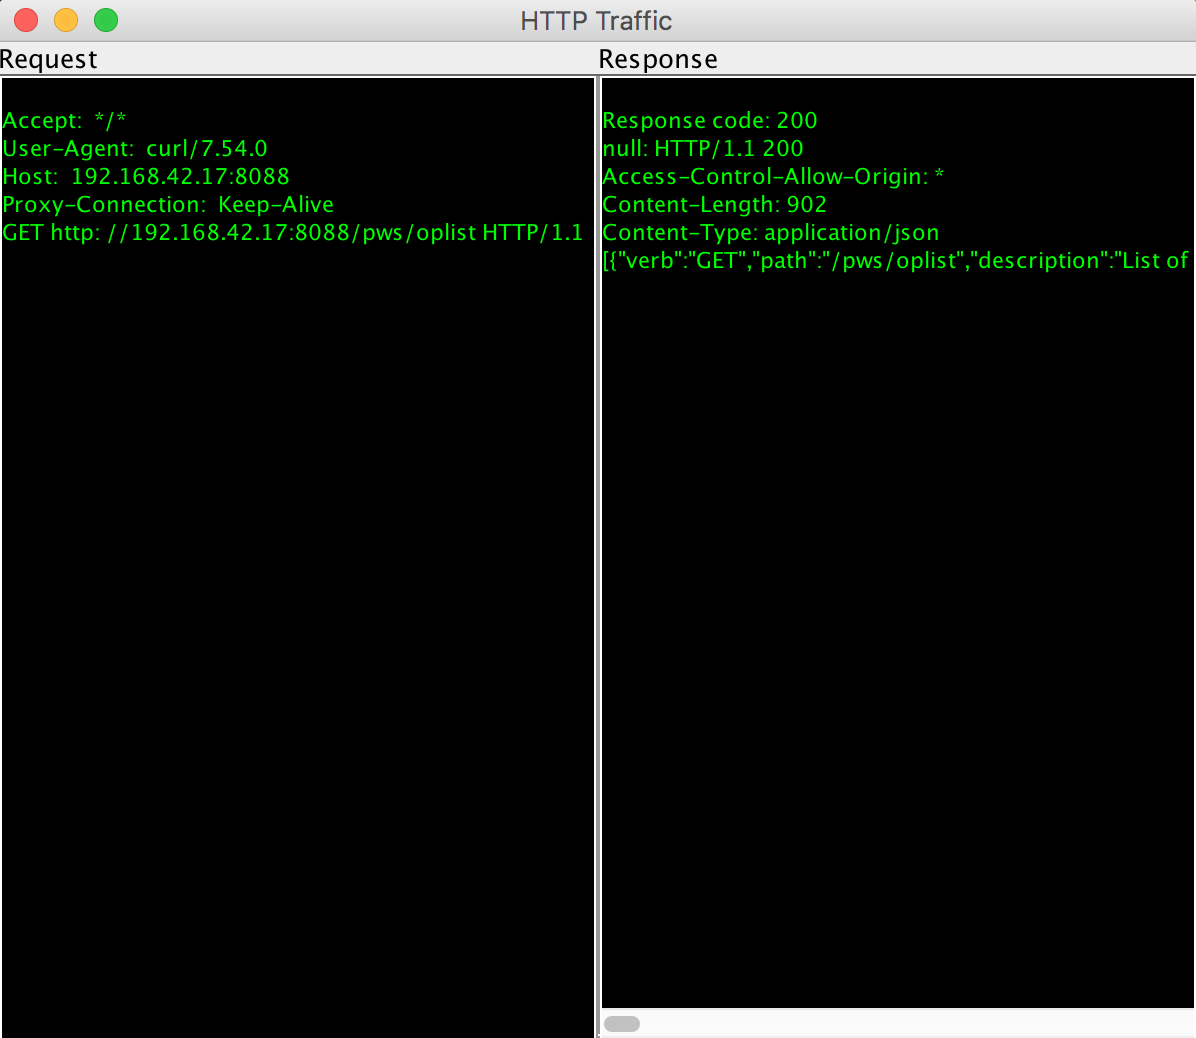
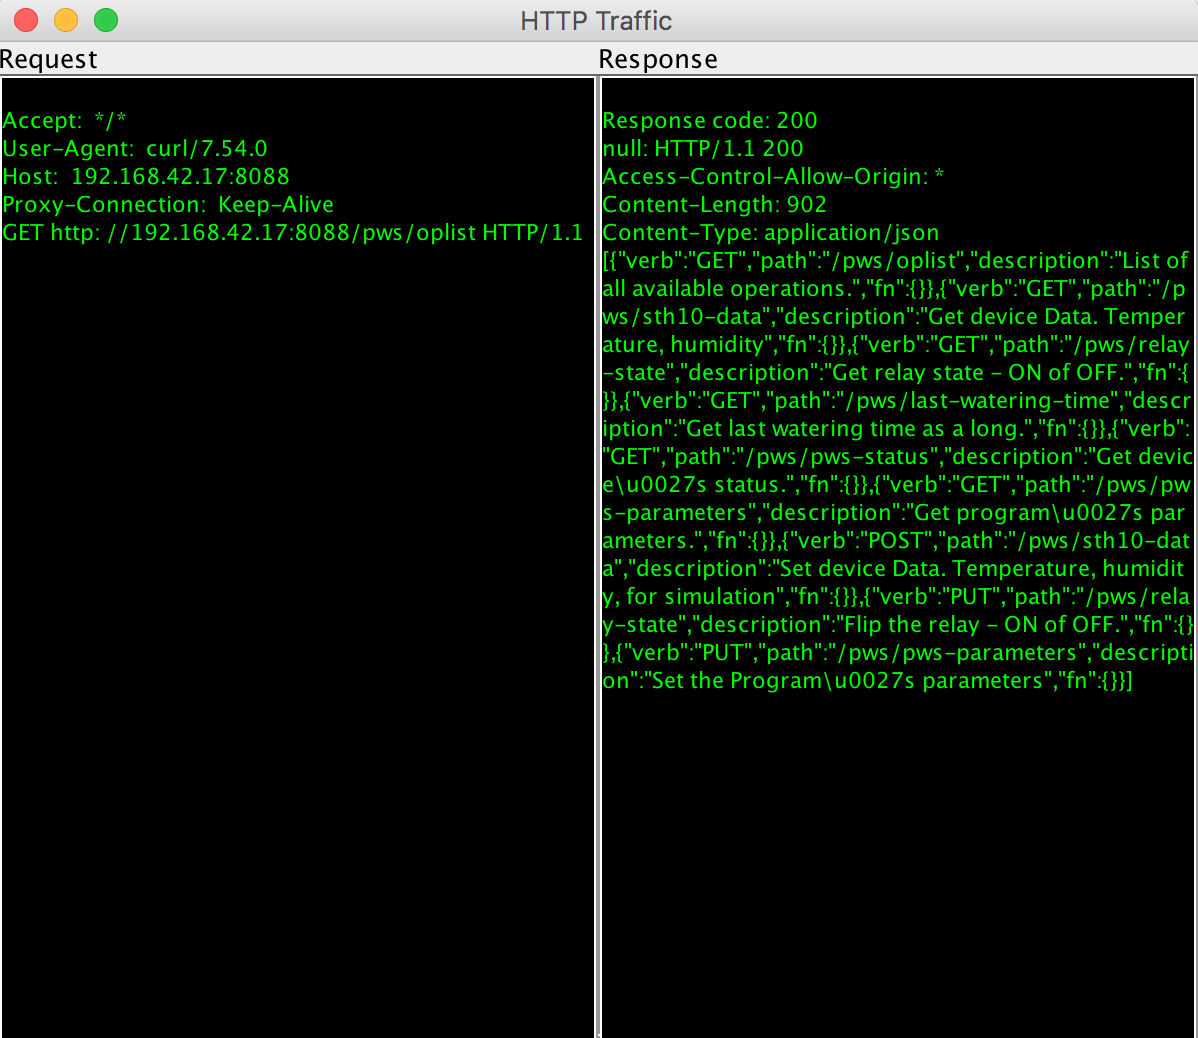
TextArea line wrap

Changed region(s): [[0.0928, 0.0, 1.0, 1.0]]

diff --git a/common-utils/src/java/utils/proxyguisample/TrafficRawPanel.java b/common-utils/src/java/utils/proxyguisample/TrafficRawPanel.java
@@ -19,13 +19,13 @@ public class TrafficRawPanel
 
 	public TrafficRawPanel(String label) {
 		try {
-			jbInit(label);
+			initUI(label);
 		} catch (Exception e) {
 			e.printStackTrace();
 		}
 	}
 
-	private void jbInit(String label) {
+	private void initUI(String label) {
 		this.setLayout(borderLayout1);
 		this.setSize(new Dimension(300, 500));
 		this.setPreferredSize(new Dimension(300, 500));
@@ -34,6 +34,7 @@ public class TrafficRawPanel
 		textArea.setFont(new Font("Source Code Pro", 0, 11));
 		textArea.setForeground(Color.green);
 		textArea.setBackground(SystemColor.windowText);
+		textArea.setLineWrap(true);
 		jScrollPane.getViewport().add(textArea, null);
 		this.add(jScrollPane, BorderLayout.CENTER);
 		this.add(new JLabel(label), BorderLayout.NORTH);
